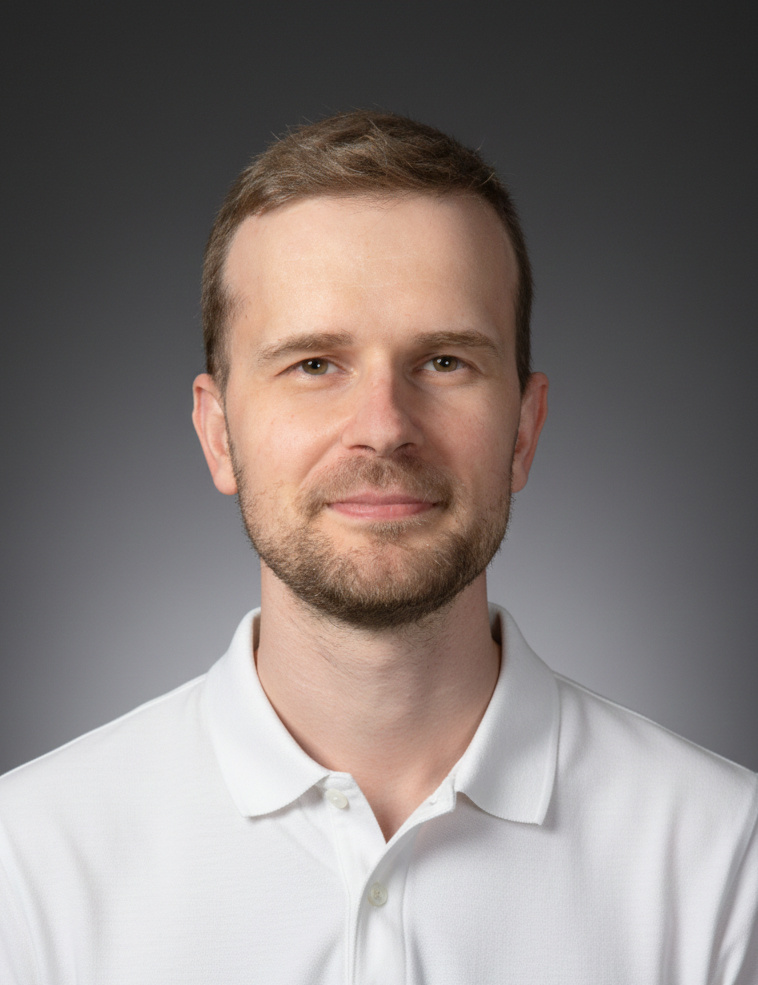
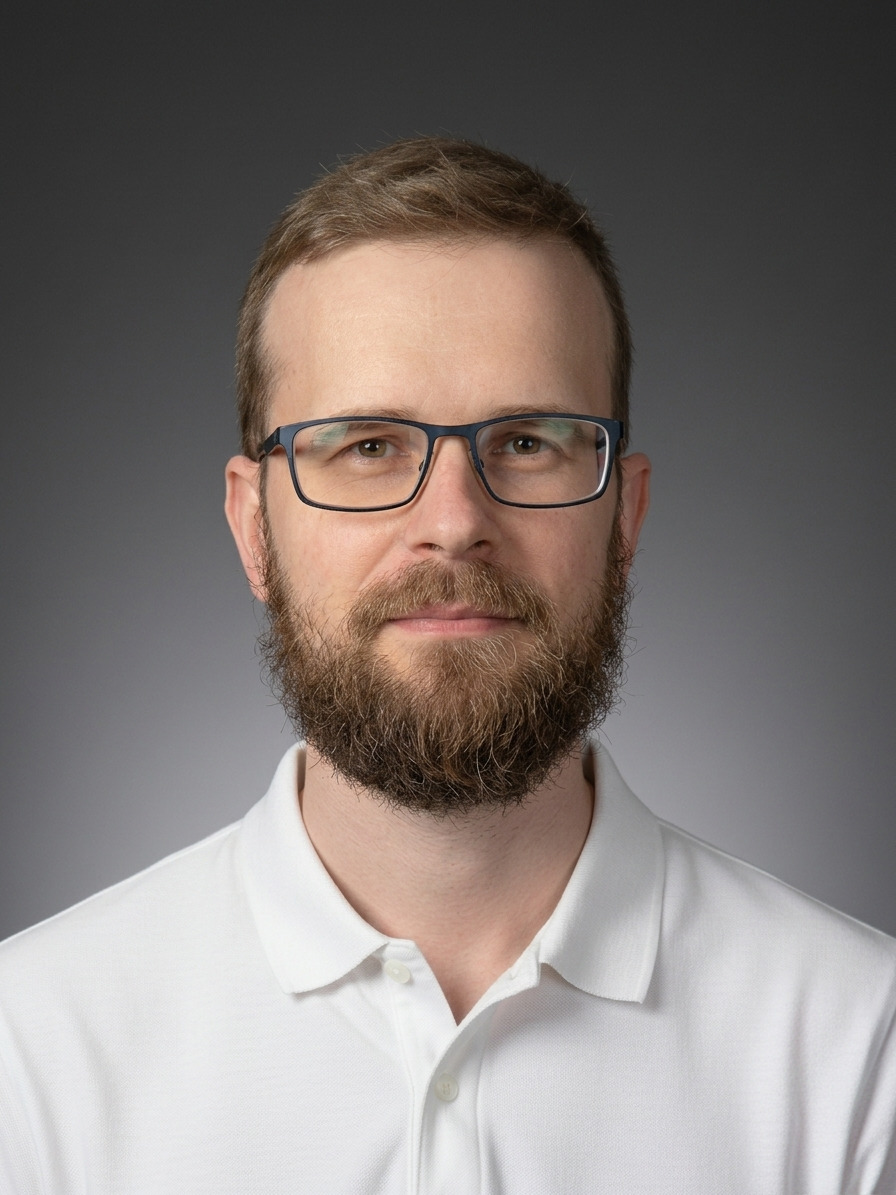
blog: add post about image editing with Gemini 3

diff --git a/docs/posts/ai-sandbox.md b/docs/posts/ai-sandbox.md
@@ -1,0 +1,95 @@
+---
+date: 2026-02-21
+draft: true  # TODO: remove
+tags:
+  - TODO
+---
+
+# AI Sandbox: zkušenosti z pilotního provozu na Univerzitě Karlově
+
+_V lednu 2026 jsem se rozhodl změnit prostředí a odejít z pozice Metodika AI na Univerzitě Karlově. Článek níže je mým osobním ohlénutím se za zajímavým projektem AI Sandboxu, na kterém jsem poslední rok a půl pracoval, a zároveň slouží jako rozšíření prezentace pro Právnickou fakultu UK. Pro úplnost uvádím, že o tématu AI Sandboxu jsem [psal již dříve](../posts/open-source-ai-sandbox.md), nicméně tento text původní informace aktualizuje a zasazuje je do širšího kontextu._
+
+V rámci kurzů generativní AI pro zaměstnance Univerzity Karlovy jsme brzy zjistili, že bezplatné verze chatbotů jako ChatGPT nebo Microsoft Copilot nabízí jen velmi omezenou funkcionalitu a potřebám (či zvědavosti) uživatelů často nestačí. Uživatelé mají typicky k dispozici jen levnější méně výkonný model bez možnosti výběru, nemohou vytvářet nebo sdílet specializované AI asistenty/agenty a počet chatů je limitován. V případě ChatGPT mohou být veškerá vkládaná data využívána výrobcem k "zlepšování jeho produktů", což vzbuzuje obavy při práci s citlivými informacemi.
+
+Logickým krokem bylo tedy zjistit, jak tyto problémy řeší jiné univerzity.
+
+## Co je to AI Sandbox
+
+![Úvodní slide](../assets/images/ai-sandbox-slide-1.png)
+
+### Chatbot
+
+AI Sandbox je platforma postavená na existujících open source technologiích, jejíž cílem je uživatelům poskytnout flexibilní bezpečný přístup ke generativní umělé inteligenci. Z pohledu běžného uživatele si lze představit _chatbota podobného ChatGPT_. Na obrázku níže je vidět chatovací rozhraní Sandboxu (aplikace [Open WebUI](https://docs.openwebui.com/)):
+
+![Chatovací rozhraní](../assets/images/open_webui.png)
+
+Hlavní rozdíl oproti ChatGPT je ten, že _chatbot běží na univerzitních serverech a administrátoři tak mají plnou kontrolu_ nad tím, k jakým modelům a funkcím mají (či nemají) uživatelé přístup, a jak se s vkládanými daty zachází. Tento koncept jsem poprvé zaznamenal na Harvard University v rámci jejich nástroje [Harvard AI Sandbox](https://www.huit.harvard.edu/ai-sandbox) (od něj vznikl i  název):
+
+> The AI Sandbox provides a secure environment in which to explore Generative AI, mitigating many security and privacy risks and ensuring the data entered will not be used to train any vendor large language models (LLMs). It offers a single interface that enables access to the latest LLMs from OpenAI, Anthropic, Google, and Meta. Features include image generation, data visualization, and the ability to upload multiple files.
+
+Podobný nástroj poskytuje svým uživatelům také Stanford University jako [Stanford AI Playground](https://uit.stanford.edu/aiplayground) a řada dalších institucí. V České republice je velmi aktivní organizace e-INFRA CZ (resp. CERIT SC - Masarykova Univerzita), které věnuji jednu z následujících kapitol.
+
+Pointou těchto nástrojů je, že uživatelé pracují v prostředí pod správou a kontrolou dané organizace, a k dispozici mohou mít modely od různých výrobců, nejen ChatGPT (resp. GPT), ale také Claude nebo Gemini, včetně open weights modelů jako Mistral nebo DeepSeek běžících plně na vlastních serverech. A to vše v jedné aplikaci.
+
+### API rozhraní
+
+Pokročilí uživatelé (typicky výzkumníci nebo vývojáři) vyjádřili zájem volat modely z vlasních programů přes [API (application programming interface)](https://cs.wikipedia.org/wiki/API). Výzkumník má například tisíce souborů a chce analyzovat jejich obsah. Nemůže je nahrát všechny najednou, ale musí je předkládat jednotlivě. Místo toho, aby vše dělal ručně, vytvoří si programový skript, který interaguje s modelem napřímo, a výsledky navíc uloží do tabulky pro další zpracování.
+
+Pomocí aplikace [LiteLLM](https://docs.litellm.ai/) lze uživatelům toto API zpřístupnit, přidělit jim požadované modely, nastavit limity a provádět monitoring. Na obrázku níže vlevo je jednoduché volání v jazyce Python (API rozhraní je OpenAI-kompatibilní). Vpravo je ukázka administrátorského rozhraní s přehledem útraty pro různé modely:
+
+![Volání přes API a monitoring](../assets/images/litellm.png)
+
+## Proč jednoduše nepořídit ChatGPT?
+
+Zde se nabízí logická a častá otázka, proč zaměstnancům UK nepořídit ChatGPT a API rozhraní přímo od OpenAI.
+
+
+
+nebo od nějakého jiného poskytovatele. Univerzita již má Microsoft Copilot, ale jen v omezené verzi.
+
+Na ChatGPT jsme se ptali, ale OpenAI bohužel moc nekomunikovala. Konkrétní nabídku jsme z nich nedostali. Nabídka Anthropic byla velmi nevýhodná. Google do nedávné doby nereagoval.
+
+Předplatné mohou být velmi nevýhodné: zkušenosti Harvard, UPOL, naše - pouze část uživatelé chatboty skutečně aktivně využívá (od 1/3 do 10%)
+
+Data odchází ke zpracování na cizí servery a organizaci nezbývá, než zpracovateli důvěřovat.
+
+Technologická závislost
+
+## AI jako služba na e-INFRA CZ
+
+---
+
+1. Organizace semináře:
+    1. Představit sebe
+    1. Představit Davida Šlosara
+    1. Náčrt co posluchače čeká: nejprve cca 20 minut přednáška, potom prostor na dotazy a diskusi
+1. Co je AI Sandbox:
+    1. "Flexibilní alternativa k ChatGPT hostovaná na vlastním hardware"
+    1. Chatovací rozhraní, API platforma
+1. Proč nepořídit ChatGPT?
+    1. Vysoká cena a možná finanční neefektivita
+    1. Data odchází na cizí servery (bude americká firma spolehlivý partner i za příštích x let?)
+    1. Technologická závislost (jeden dodavatel, nemáme kontrolu nad funkcionalitou, nelze upravit na míru univerzitnímu prostředí)
+1. Jak na to šli jinde:
+    1. Harvard AI Sandbox (od nich název), Stanford AI Playground, e-INFRA CZ AIaaS
+1. Jak na to šli jinde:
+    1. e-INFRA CZ AIaaS
+        1. Stačí si vyplnit přihlášku a máte přístup
+        1. Open WebUI, LiteLLM
+        1. PC i telefon (use case: asistent při čtení článku)
+        1. Nepoužívat model DeepSeek
+        1. Placené modely lze připojit přes OpenRouter
+            1. pozor: nehodí se pro citlivá data, proto je potřeba centrálně spravovaná instance (kyberbezpečnost, placení) -> AI Sandbox na UK
+1. AI Sandbox na UK
+    1. Open WebUI a LiteLLM s placenými modely, nyní běží v pilotním provozu na e-INFRA CZ
+    1. Možnost vytvářet uživatelské skupiny: sdílení asistentů a dalšího obsahu
+    1. Experimentuje se s hostovaní menších LLMs v rámci datacentra Troja
+1. Další nástroje a odkazy: ai.cuni.cz, ai@cuni.cz, rse, Oddělení aplikované umělé inteligence
+1. Závěr: Shrnutí prezentace pro diskusi, QR kód ke stažení prezentace
+
+Demo?
+* Perplexity deep research
+* Agenti/asistenti, agentic search, tools
+* Skills
+* API s vlastním software
+* openrouter (direct connections)

diff --git a/docs/posts/editace-portretu-s-gemini-3.md b/docs/posts/editace-portretu-s-gemini-3.md
@@ -1,0 +1,39 @@
+---
+date: 2026-04-11
+tags:
+  - ai
+  - chatbots
+  - generative-ai
+  - creativity
+  - image-generation
+---
+
+# Editace portrétu s Gemini 3 Flash Image
+
+Poslední dobou si hraju s úpravou obrázků v různých chatbotech, a napadlo mě zkusit upravit portrétovou fotku, kterou mi dělal kolega fotograf cca před rokem a půl (viz níže portrét vlevo). Nelíbila se mi na ní zelená mikina a příliš tmavé pozadí. Pozadí by se jistě dalo vyřešit v nějakém fotoeditoru, ale mikina jen těžko.
+
+![Náhled portrétu a jeho následných editací](../assets/images/image-editing-with-gemini-preview.jpg)
+
+Po diskusi s Gemini vyhrála varianta neutrálního bílého trika s límečkem a světlejšího pozadí (viz výše portrét uprostřed). Chtěl jsem mít portrét do CVčka, který by se hodil jak do korporátu, tak do startupu. S výsledkem jsem byl velmi spokojen, a po oříznutí a lehkém vyretušování [v GIMPu](https://www.gimp.org/) jsem se rovnou zbavil i vodoznaku bílé hvězdy, který Gemini generuje v pravém dolním rohu. Skvělé, ušetřilo mi to čas a peníze za novou fotku.
+
+Postupem času jsem ale docela výrazně změnil "image" (přibyly brýle a plnovous) a dokonce se mi stalo, že mě lidé podle fotky nepoznali. Pokusy s prompty typu "Přidej brýle a plnovous" dopadly bídně - a navzdory různému ladění se mi nepodařilo dosáhnout uspokojivé shody. Nastal tedy čas na pokus s jednoduchou selfie a přenesením vzhledu. Následující fotku jsem použil jako referenci pro podobu brýlí a vousů:
+
+<!-- more -->
+
+![Selfie pro přenos stylu](../assets/images/my_selfie_for_style_transfer.jpg)
+
+První verze nebyly nic moc - zejména v chatbotu Grok, který zatvrzele vytvářel viditelně odlišné brýle a vousy (mám trochu podezření, že je to záměr, aby nešlo snadno provést face swap). Navíc, lidská tvář má spoustu drobných detailů a i pár malých odchylek způsobí, že si člověk není moc podobný.
+
+Výsledky Gemini (konkrétně modelu _Nano Banana 2_ - oficiálně _Gemini 3 Flash Image_) už byly slibné, ale stále to nebylo ono. Např. verze níže má příliš velké oči a o trochu širší hlavu:
+
+![Portrét s brýlemi a vousy s příliš velkýma očima](../assets/images/my_portrait_gemini_not_good.png)
+
+Po troše ladění jsem nakonec vytvořil prompt, který dodal solidní podobu. Jak je vidět níže, bylo potřeba přesně identifikovat problém a modelu říct, co má udělat (předcházela mu delší konverzace včetně vložené referenční fotky):
+
+> Cool. Recently, I got glasses and beard. Can you add them to the photo? Keep the face proportions - especially eyes (there is the interesting effect that the glasses optically make my eyes a bit smaller) and the beard length.
+
+Po stránce angličtiny není ten prompt žádný zázrak, ale výsledný obrázek mi tak trochu vyrazil dech:
+
+![Velmi dobrý portrét s brýlemi a vousy](../assets/images/my_portrait_gemini.jpg)
+
+Není dokonalý, ale je až děsivě dobrý. Na jednu stranu je fajn, že nemusím k fotografovi, na druhou stranu je vidět, jak potenciálně snadné (a stále jednodušší) je vytvářet vysoce přesvědčivé digitální napodobeniny.

diff --git a/docs/posts/supply-chain-utok-na-litellm.md b/docs/posts/supply-chain-utok-na-litellm.md
@@ -1,0 +1,20 @@
+---
+date: 2026-03-27
+draft: true  # TODO: remove
+tags:
+  - TODO
+---
+
+# Supply chain útok na LiteLLM
+
+> TLDR;
+> 
+> * The compromised PyPI packages were litellm==1.82.7 and litellm==1.82.8. Those packages have now been removed from PyPI.
+> * We believe that the compromise originated from the Trivy dependency used in our CI/CD security scanning workflow.
+> * Customers running the official LiteLLM Proxy Docker image were not impacted. That deployment path pins dependencies in requirements.txt and does not rely on the compromised PyPI packages.
+> * We are pausing new LiteLLM releases until we complete a broader supply-chain review and confirm the release path is safe.  
+> -- [Security Update: Suspected Supply Chain Incident (LiteLLM Blog)](https://docs.litellm.ai/blog/security-update-march-2026)
+
+* napadeny byl pouze balicek na pypi.org, zdrojovy kod na githubu ne. https://docs.litellm.ai/blog/security-update-march-2026#who-is-affected
+* Zajimave je, ze githubovy ucet autora LiteLLM neni dostupny (smazan, deaktivovan?): https://github.com/krrishdholakia
+* trivy popis utoku (https://www.aquasec.com/blog/trivy-supply-chain-attack-what-you-need-to-know/) ukazuje sofistikovany utok na CI/CD a masivni sber credentials

diff --git a/docs/posts/osobni-wikipedie-pro-ai-agenty.md b/docs/posts/osobni-wikipedie-pro-ai-agenty.md
@@ -1,0 +1,21 @@
+---
+date: 2026-04-08
+draft: true  # TODO: remove
+tags:
+  - TODO
+---
+
+# Osobní Wikipedie pro AI agenty
+
+Post on X: https://x.com/karpathy/status/2040470801506541998
+Spec (for LLMs): https://gist.github.com/karpathy/442a6bf555914893e9891c11519de94f
+
+* QMD - Query Markup Documents: https://github.com/tobi/qmd (cli tool)
+* Může sloužit pro ukládání užitečných chatů s LLMs (aby se informace neztratily)
+  * Prehlceni informacemi, fomo
+  * Private credit
+  * Linux overview
+  * LLMs a genAI, llama.cpp
+* Datové zdroje
+  * Poznámky (notes)
+  * Osobní blog

diff --git a/docs/posts/digi-detox.md b/docs/posts/digi-detox.md
@@ -1,0 +1,12 @@
+---
+date: 2026-03-09
+draft: true  # TODO: remove
+tags:
+  - TODO
+---
+
+# digi-detox
+
+* chat s modelem - problem je digitalni dieta, ne nova apka
+* zablokovani urcitych webu k omezeni kompulzivni konzumace obsahu
+* newsroom - filtr obsahu
